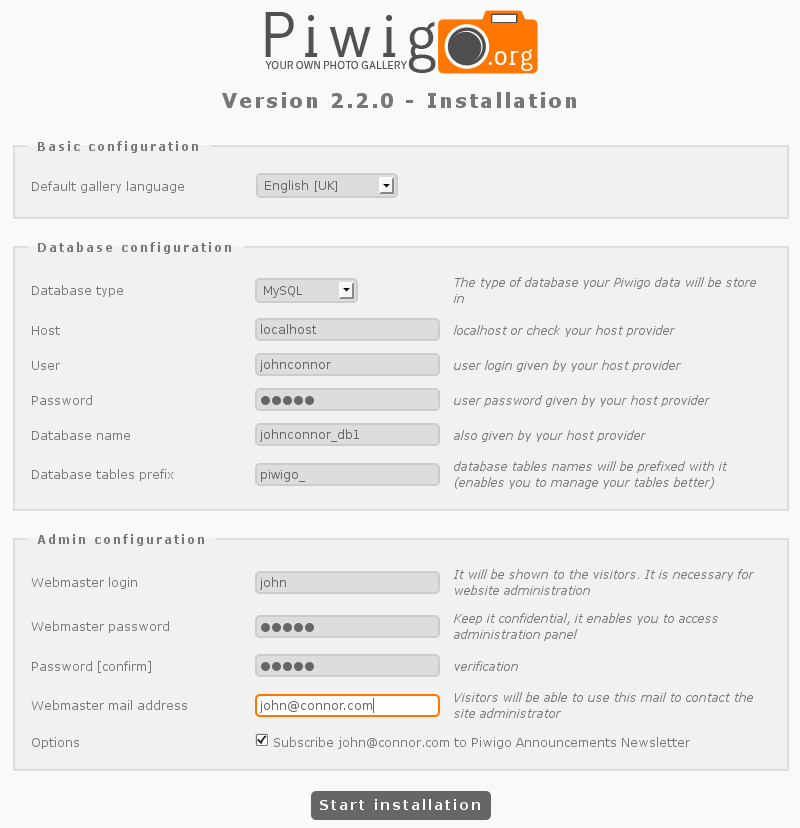
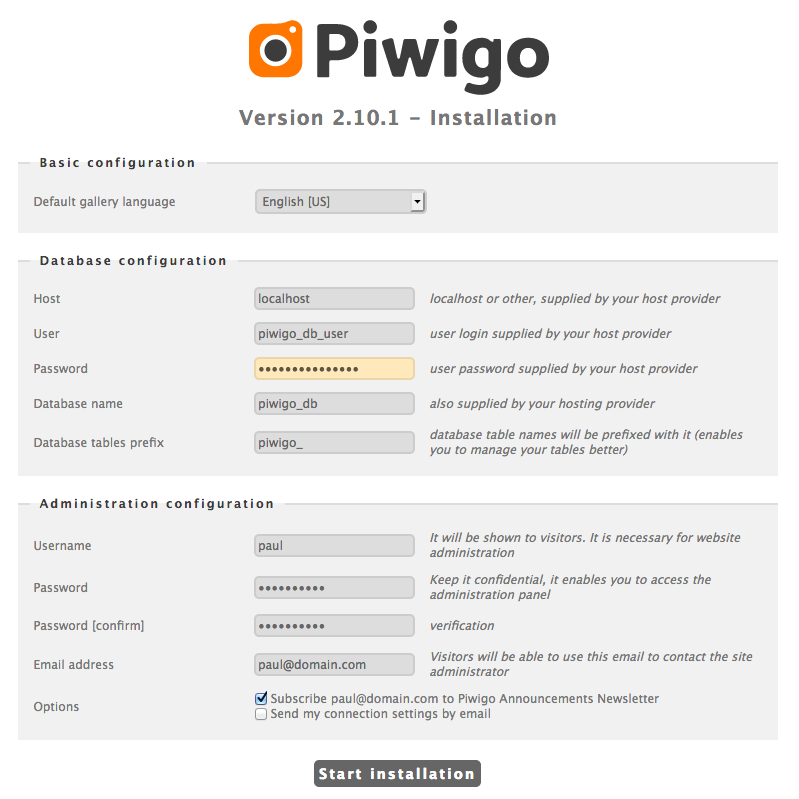
Update guides
* fresh install screenshots
* screenshots for automatic update (not used) and a GIF (used)
* add "Guides" in the header/footer menus
* use the guides for the get-started page links
* change requirements top illustration (same as get-started illustration for requirements)
* requirements: add link to piwigo.com signup page
* automatic update : improve accordion content

diff --git a/css/piwigodotorg.css b/css/piwigodotorg.css
@@ -7539,9 +7539,26 @@ body.release-2_10_0 #releaseNotesMain .section-framed p {
     
   }
 
-.automatic-update-panel p{
-    padding:10px 0;
+.automatic-update-panel p {
+  font-size: 15px;
+  font-weight: 500;
+  color: #286aac;
+  margin-top: 0;
+  text-align: center;
+  margin-bottom: 20px;
+}
+
+.automatic-update-panel li {
     color: #286aac;
+    margin-bottom: 20px;
+    padding-right: 25px;
+}
+
+.automatic-update-panel a {
+  background-color: #286aac;
+  color: #ebf4fe;
+  padding: 3px 7px;
+  border-radius: 3px;
 }
   
 .automatic-update-border-bottom{

diff --git a/language/en_UK/requirements.lang.php b/language/en_UK/requirements.lang.php
@@ -1,18 +1,18 @@
 <?php
 
-$lang['porg_guides_requirements_paragraph'] = 'Piwigo requires a web hosting to run. For a photo gallery solution with all included (installation, hosting, backups), or if you simply want to try Piwigo with no installation, you may consider opening a free trial account on Piwigo.com.';
+$lang['porg_guides_requirements_paragraph'] = 'Piwigo requires a web hosting to run. For a photo gallery solution with all included (installation, hosting, backups), or if you simply want to try Piwigo with no installation, you may consider <a href="%s">opening a free trial account on Piwigo.com</a>.';
 
 $lang['porg_guides_requirements_minimal'] = 'Minimum Requirements';
 $lang['porg_guides_requirements_minimal_first'] = 'A web server like Nginx or Apache';
 $lang['porg_guides_requirements_minimal_second'] = 'MySQL 5 (or the equivalent with MariaDB)';
 $lang['porg_guides_requirements_minimal_third'] = 'PHP 5.3 (recommended 7.0 or 7.1)';
-$lang['porg_guides_requirements_minimal_fourth'] = 'A graphic library: ImageMagick is recommended (better performances and image quality) or GD which is often bundled with PHP.';
-$lang['porg_guides_requirements_minimal_fifth'] = 'an FTP client software will be required to upload the files (netinstall or full package) : Piwigo team recommends FileZilla as FTP client software, because it is free as Piwigo is, and compatible with Windows, Mac and Linux. Piwigo is also included in Softaculous or other auto-installer system, if available on your hosting : that way you don\'t need any FTP client software, but you might need one later.';
-$lang['porg_guides_requirements_minimal_sixth'] = 'Enough disk space for your pictures : by default, multiple sizes of your pictures will be generated in directory _data/i.';
+$lang['porg_guides_requirements_minimal_fourth'] = 'A graphic library: ImageMagick is recommended for its performances and image quality but GD, often bundled with PHP, can also do the job.';
+$lang['porg_guides_requirements_minimal_fifth'] = 'an FTP client software will be required to upload the files (netinstall or full package) : Piwigo team recommends FileZilla as FTP client software, because it is free as Piwigo is, and compatible with Windows, Mac and Linux.';
+$lang['porg_guides_requirements_minimal_sixth'] = 'Enough disk space for your pictures : in addition to the photos you upload, Piwigo will store the "multiple sizes" in a cache directory of your server.';
 $lang['porg_guides_requirements_optional'] = 'Optional Requirements';
 $lang['porg_guides_requirements_optional_first'] = 'exiftool is required for plugin Write Metadata or any other plugin dealing with EXIF/IPTC metadata';
 $lang['porg_guides_requirements_optional_second'] = 'ffmpeg is required for plugin VideoJS to create video poster';
 $lang['porg_guides_requirements_optional_third'] = 'jpegtran is recommended for plugin RotateImage to rotate images with no compression';
-$lang['porg_guides_requirements_optional_third'] = 'pdftoppm will be recommended with Piwigo 2.10+ to generate poster from PDF files (instead of ImageMagick)';
+$lang['porg_guides_requirements_optional_third'] = 'pdftoppm will be recommended to generate poster from PDF files (instead of ImageMagick)';
 
 ?>

diff --git a/include/functions_piwigodotorg.php b/include/functions_piwigodotorg.php
@@ -460,6 +460,7 @@ function porg_set_pcom_urls()
 
   $pcom_url = array(
     'pricing' => 'https://piwigo.com/pricing',
+    'signup' => 'https://piwigo.com/signup',
     'why' => 'https://piwigo.com/why',
     'blog' => 'https://piwigo.com/blog/',
     'clients' => 'https://piwigo.com/clients',
@@ -469,6 +470,7 @@ function porg_set_pcom_urls()
   {
     $pcom_url = array(
       'pricing' => 'https://'.$pcom_prefix.'piwigo.com/tarifs',
+      'signup' => 'https://'.$pcom_prefix.'piwigo.com/inscription',
       'why' => 'https://'.$pcom_prefix.'piwigo.com/pourquoi-choisir-piwigo',
       'blog' => 'https://'.$pcom_prefix.'piwigo.com/blog/',
       'clients' => 'https://'.$pcom_prefix.'piwigo.com/clients',
@@ -477,18 +479,21 @@ function porg_set_pcom_urls()
   elseif ('de.' == $pcom_prefix)
   {
     $pcom_url['pricing'] = 'https://'.$pcom_prefix.'piwigo.com/preise';
+    $pcom_url['signup'] = 'https://'.$pcom_prefix.'piwigo.com/anmelden';
     $pcom_url['why'] = 'https://'.$pcom_prefix.'piwigo.com/warum-piwigo-wählen';
     $pcom_url['clients'] = 'https://'.$pcom_prefix.'piwigo.com/kunden';
   }
   elseif ('es.' == $pcom_prefix)
   {
     $pcom_url['pricing'] = 'https://'.$pcom_prefix.'piwigo.com/precios';
+    $pcom_url['signup'] = 'https://'.$pcom_prefix.'piwigo.com/registrarse';
     $pcom_url['why'] = 'https://'.$pcom_prefix.'piwigo.com/por-que';
     $pcom_url['clients'] = 'https://'.$pcom_prefix.'piwigo.com/clientes';
   }
   elseif ('it.' == $pcom_prefix)
   {
     $pcom_url['pricing'] = 'https://'.$pcom_prefix.'piwigo.com/plan';
+    $pcom_url['signup'] = 'https://'.$pcom_prefix.'piwigo.com/signup';
     $pcom_url['why'] = 'https://'.$pcom_prefix.'piwigo.com/position';
     $pcom_url['clients'] = 'https://'.$pcom_prefix.'piwigo.com/examples';
   }

diff --git a/language/en_UK/automatic_update.lang.php b/language/en_UK/automatic_update.lang.php
@@ -1,8 +1,10 @@
 <?php
 
 $lang['porg_guides_automatic_update_paragraph1'] = 'This is the recommended method to upgrade your Piwigo to the latest release.With the automatic upgrade method, you just have no excuse to forget or postpone your upgrades. It truly takes less than 1 minute to run the latest and most secure Piwigo release. The procedure provides - upon a simple-clic validation - an automatic backup of the existing database and sensitive files, prior to any update operation.';
-$lang['porg_guides_automatic_update_button1'] = 'If you\'re running Piwigo 2.3.x or higher';
+$lang['porg_guides_automatic_update_step1'] = 'One single step';
 $lang['porg_guides_automatic_update_paragraph3'] = 'Go to Administration > Tools > Updates and follow the guide';
+$lang['porg_guides_automatic_update_caption1'] = 'Yes, only 2 clicks';
+$lang['porg_guides_automatic_update_time_1'] = '30 seconds';
 
 $lang['porg_guides_automatic_update_button2'] = 'If you\'re running Piwigo 2.1.x or 2.2.x';
 $lang['porg_guides_automatic_update_paragraph4'] = 'Go to Administration > Plugins > Manage > Other plugins available and install Piwigo Auto Upgrade. If the plugin is already installed, check you\'re running the latest revision on the Administration > Plugins > Manage > Check for updates screen.';

diff --git a/language/en_UK/guides.lang.php b/language/en_UK/guides.lang.php
@@ -1,5 +1,5 @@
 <?php
 
-$lang['porg_guides_intro'] = 'Welcome to the Piwigo Documentation. Piwigo has embedded user documentation like the “Help me!” pages in the administration screens or anywhere you see a graphical question mark. This wiki also covers the developer documentation.';
+$lang['porg_guides_intro'] = 'Welcome to Piwigo Guides. Here you will find the basics about how to install and update your Piwigo. Some help is also provided directly in your Piwigo with “Help me!” pages of the administration pannel or anywhere you see a graphical question mark. A wiki also covers the developer documentation.';
 
 ?>

diff --git a/language/en_UK/plugin.lang.php b/language/en_UK/plugin.lang.php
@@ -115,6 +115,8 @@ $lang['yesterday'] = 'yesterday';
 /*Used in guide pages*/
 
 $lang['porg_guides'] = 'Guides';
+$lang['Installation'] = 'Installation';
+$lang['Update'] = 'Update';
 $lang['porg_guides_installation_instruction_title'] = 'Installation guides';
 $lang['porg_guides_update_instruction_title'] = 'Update guides';
 $lang['porg_guides_requirements'] = 'Requirements';

diff --git a/include/requirements.inc.php b/include/requirements.inc.php
@@ -1,0 +1,3 @@
+<?php
+porg_set_pcom_urls();
+?>
